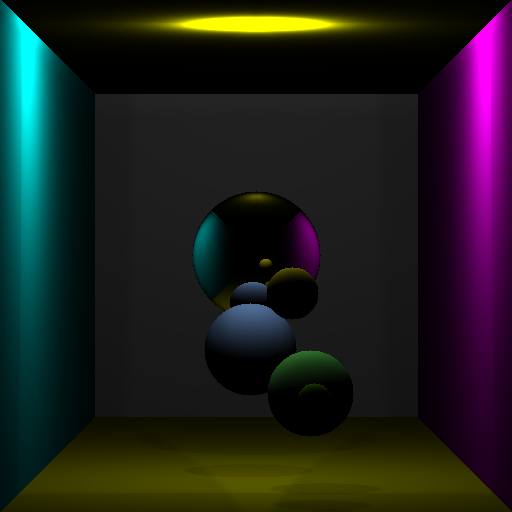
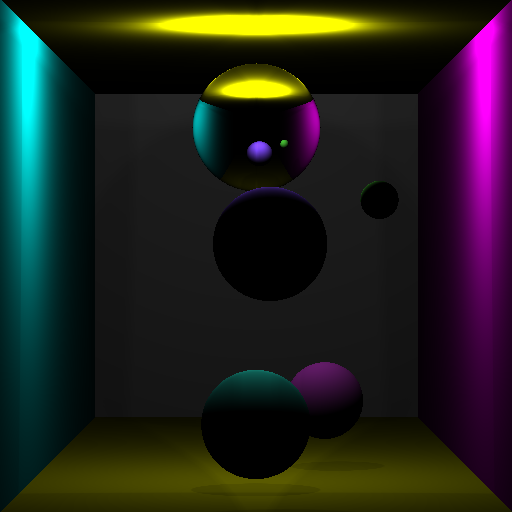
eclairage indirect ok + debut bounding box + camera ortho

diff --git a/Projet_SI_1/Projet_SI_1/Projet_SI_1.cpp b/Projet_SI_1/Projet_SI_1/Projet_SI_1.cpp
@@ -14,19 +14,31 @@
 #include "Light.h"
 #include <algorithm>
 #include <math.h>
+#include "Box.h"
+#include <random>
 
 const int width = 512;
 const int height = 512;
-int profondeurMax = 5;
+
+std::random_device rd;
+std::mt19937 gen(rd());
+
+int profondeurMax = 3;
+
 int nbSpheres = 5;
 std::vector<Sphere> spheres;
+
 std::vector<Light> lights;
 int nbLightSource = 1;
 int nbLightsPerSource = 100;
 int lightIntensity = 2000000;
-
 Vec3<float> lightColor = { 1,1,1 };
-int nbRayonsRandom = 10;
+
+int nbRayonsRandom = 5;
+int randomRayOffset = 1;
+
+
+
 
 std::optional<float> Intersect(Ray ray,Sphere s)
 {
@@ -39,7 +51,6 @@ std::optional<float> Intersect(Ray ray,Sphere s)
 	{
 		return -b / (2 * a);
 	}
-
 
 	else if (delta > 0)
 	{
@@ -56,12 +67,40 @@ std::optional<float> Intersect(Ray ray,Sphere s)
 			return r1;
 	}
 
-
 	else if (delta < 0)
 	{
 		return std::nullopt;
 	}
 }
+
+//std::optional<double> IntersectBox(Nodes b, Ray r) {
+//	Vec3<double> dir = 1.0 / r.direction;
+//
+//	// lb is the corner of AABB with minimal coordinates - left bottom, rt is maximal corner
+//	// r.org is origin of ray
+//	double t1 = (b.maxPos.x - r.position.x) * dir.x;
+//	double t2 = (b.maxPos.x - r.position.x) * dir.x;
+//	double t3 = (b.minPos.y - r.position.y) * dir.y;
+//	double t4 = (b.maxPos.y - r.position.y) * dir.y;
+//	double t5 = (b.minPos.z - r.position.z) * dir.z;
+//	double t6 = (b.maxPos.z - r.position.z) * dir.z;
+//
+//	float tmin = max(max(min(t1, t2), min(t3, t4)), min(t5, t6));
+//	float tmax = min(min(max(t1, t2), max(t3, t4)), max(t5, t6));
+//
+//	// if tmax < 0, ray (line) is intersecting AABB, but the whole AABB is behind us
+//	if (tmax < 0)
+//	{
+//		return nullopt;
+//	}
+//
+//	// if tmin > tmax, ray doesn't intersect AABB
+//	if (tmin > tmax)
+//	{
+//		return nullopt;
+//	}
+//	return tmin;
+//}
 
 Vec3<float> DrawRay(int profondeur, Ray ray, Intersection intersect)
 {
@@ -95,7 +134,7 @@ Vec3<float> DrawRay(int profondeur, Ray ray, Intersection intersect)
 				Vec3<float> newNormale = newPtInter - spheres[indexIntersectedSphere].center;
 				normalize(newNormale);
 				Intersection newIntersect = Intersection(newPtInter, newNormale, indexIntersectedSphere, sphereDistance);
-				color = DrawRay(profondeur + 1, newRay, newIntersect);
+				color = color + DrawRay(profondeur + 1, newRay, newIntersect);
 			}
 
 			else
@@ -106,23 +145,42 @@ Vec3<float> DrawRay(int profondeur, Ray ray, Intersection intersect)
 
 		else //gestion spheres avec lumières
 		{
-			//std::vector<Vec3<float>> indirectColors;
-			//indirectColors.resize(nbRayonsRandom);
+			Vec3<float> indirectColors = { 0,0,0 };
 
-			//for (int i = 0; i < nbRayonsRandom; i++) //eclairage indirect
-			//{
-			//	Vec3<float> dirILight = intersect.normale * dot(ray.dir * -1.0f, intersect.normale) * 2.0f + ray.dir * -1.0f;
-			//	normalize(dirILight);
-			//	Ray newRay(intersect.ptIntersection, dirILight);
-			//}
+			for (int i = 0; i < nbRayonsRandom; i++) //eclairage indirect
+			{
+				std::uniform_real_distribution<> disRayOffset(-randomRayOffset, randomRayOffset);
+				Vec3<float> dirILight = { intersect.normale.x - disRayOffset(gen) , intersect.normale.y - disRayOffset(gen), intersect.normale.z - disRayOffset(gen) }; // rayon random autour de la normale
+				normalize(dirILight);
+				Ray newRay(intersect.ptIntersection, dirILight);
 
-			//for (int i = 0; i < nbRayonsRandom; i++)
-			//{
-			//	color = color + indirectColors[i];
-			//}
 
-			std::vector<Vec3<float>> directColors;//eclairage direct
-			directColors.resize(nbLightsPerSource * nbLightSource);
+				int indexIntersectedSphere = -1;
+				float sphereDistance = 9999999;
+				bool gotIntersected = false;
+
+				for (int l = 0; l < nbSpheres; l++)
+				{
+					std::optional<float> resReflect = Intersect(newRay, spheres[l]);
+					if (resReflect.has_value() && resReflect.value() < sphereDistance)
+					{
+						indexIntersectedSphere = l;
+						sphereDistance = resReflect.value();
+						gotIntersected = true;
+					}
+				}
+
+				if (gotIntersected)
+				{
+					Vec3<float> newPtInter = intersect.ptIntersection + dirILight * sphereDistance * 0.95f;
+					Vec3<float> newNormale = newPtInter - spheres[indexIntersectedSphere].center;
+					normalize(newNormale);
+					Intersection newIntersect = Intersection(newPtInter, newNormale, indexIntersectedSphere, sphereDistance);
+					indirectColors =indirectColors + DrawRay(profondeur + 1, newRay, newIntersect)*0.01f;
+				}
+			}
+
+			Vec3<float> directColors = { 0,0,0 };//eclairage direct
 
 			for (int i = 0; i < nbLightsPerSource * nbLightSource; i++)
 			{
@@ -147,16 +205,13 @@ Vec3<float> DrawRay(int profondeur, Ray ray, Intersection intersect)
 							scal = 0;
 						}
 
-						color.x += spheres[intersect.indexIntersectedItem].color.x * lights[i].intensity * scal * lights[i].color.x / (nbLightsPerSource * lightDistance * lightDistance);
-						color.y += spheres[intersect.indexIntersectedItem].color.y * lights[i].intensity * scal * lights[i].color.y / (nbLightsPerSource * lightDistance * lightDistance);
-						color.z += spheres[intersect.indexIntersectedItem].color.z * lights[i].intensity * scal * lights[i].color.z / (nbLightsPerSource * lightDistance * lightDistance);
+						directColors.x += spheres[intersect.indexIntersectedItem].color.x * lights[i].intensity * scal * lights[i].color.x / (nbLightsPerSource * lightDistance * lightDistance);
+						directColors.y += spheres[intersect.indexIntersectedItem].color.y * lights[i].intensity * scal * lights[i].color.y / (nbLightsPerSource * lightDistance * lightDistance);
+						directColors.z += spheres[intersect.indexIntersectedItem].color.z * lights[i].intensity * scal * lights[i].color.z / (nbLightsPerSource * lightDistance * lightDistance);
 					}
 				}
 			}
-			for (int i = 0; i < nbLightsPerSource * nbLightSource; i++)
-			{
-				color = color + directColors[i];
-			}
+				color = color + directColors;
 		}
 		return color;
 	}
@@ -165,9 +220,8 @@ Vec3<float> DrawRay(int profondeur, Ray ray, Intersection intersect)
 
 int main()
 {
-
-	std::srand((int)std::time(nullptr));
 	Vec3<float> colorSphere = { 1,1,1 };
+	Vec3<float> pointCamera = {256,256,-300};
 
 	//box
 	float rBoxRear = 100000;
@@ -216,25 +270,33 @@ int main()
 	std::cout << centerBoxTop << rBoxTop << std::endl;
 	spheres.push_back(sphereTop);
 
+	std::uniform_real_distribution<> disOffsetLight(251, 261);
+	std::uniform_real_distribution<> disOffsetLightHeight(467, 477);
+
 	for (int i = 0; i < nbLightsPerSource; i++)
 	{
-		float x = 251 + std::rand() % 10; //->std::uniform_real_distribution
-		float y = 477 + std::rand() % 10;
-		float z = 251 + std::rand() % 10;
+		float x = disOffsetLight(gen);
+		float y = disOffsetLightHeight(gen);
+		float z = disOffsetLight(gen);
 		Vec3<float> lightPos = { x,y,z };
 		lights.push_back(Light(lightPos, lightColor, lightIntensity));
 	}
 
 	nbSpheres += 4;
 
+	std::uniform_real_distribution<> disPosSphere(64, 448);
+	std::uniform_real_distribution<> disHeightSphere(64, 320);
+	std::uniform_real_distribution<> disRayonSphere(16, 64);
+	std::uniform_real_distribution<> disColorSphere(0, 1);
+
 	for (int i = 0; i < nbSpheres-5; i++)
 	{
-		float r = 16 + std::rand() % 48;
-		float x = 64 + std::rand() % 384;
-		float y = 64 + std::rand() % 256;
-		float z = 64 + std::rand() % 384;
+		float r = disRayonSphere(gen);
+		float x = disPosSphere(gen);
+		float y = disHeightSphere(gen);
+		float z = disPosSphere(gen);
 		Vec3<float> c = { x, y, z };
-		Vec3<float> col = colorSphere - Vec3<float>{(std::rand() % 100) / 100.f, (std::rand() % 100) / 100.f, (std::rand() % 100) / 100.f};
+		Vec3<float> col = colorSphere - Vec3<float>{(float)disColorSphere(gen), (float)disColorSphere(gen), (float)disColorSphere(gen)};
 		float a = 0;
 		Sphere s(c, r,col,a);
 		spheres.push_back(s);
@@ -244,7 +306,7 @@ int main()
 	{
 		float r = 64;
 		float x = 256;
-		float y = 256;
+		float y = 512-128;
 		float z = 512;
 		Vec3<float> c = { x, y, z };
 		Vec3<float> col = {0,0,0};
@@ -269,9 +331,9 @@ int main()
 			color.y = 0;
 			color.z = 0;
 
-			Vec3<float> rDir = { 0.0,0.0,1.0 };
+			Vec3<float> rDir = { 0.0,0.0,1.0};
 			normalize(rDir);
-			Vec3<float> rPos = { i,j,0.0 };
+			Vec3<float> rPos = { i, j, pointCamera.z };
 			Ray firstRay = Ray(rPos, rDir);
 
 

diff --git a/Projet_SI_1/Projet_SI_1/Box.h b/Projet_SI_1/Projet_SI_1/Box.h
@@ -1,0 +1,17 @@
+#pragma once
+#include <vector>
+#include "Vector.h"
+
+class Box
+{
+public:
+	Vec3<float> bottomLeftFrontPoint;
+	Vec3<float> topRightRearPoint;
+	
+	Box(Vec3<float> blf,Vec3<float> trr)
+	{
+		bottomLeftFrontPoint = blf;
+		topRightRearPoint = trr;
+	}
+};
+

diff --git a/Projet_SI_1/Projet_SI_1/Leaf.h b/Projet_SI_1/Projet_SI_1/Leaf.h
@@ -1,0 +1,13 @@
+//#pragma once
+//#include "Sphere.h"
+//class Leaf
+//{
+//public:
+//	Sphere sphere;
+//
+//	Leaf(Sphere s)
+//	{
+//		sphere = s;
+//	}
+//};
+

diff --git a/Projet_SI_1/Projet_SI_1/Node.h b/Projet_SI_1/Projet_SI_1/Node.h
@@ -1,0 +1,7 @@
+#pragma once
+#include "Box.h"
+class Node
+{
+
+};
+

diff --git a/Projet_SI_1/Projet_SI_1/Leaf.cpp b/Projet_SI_1/Projet_SI_1/Leaf.cpp
@@ -1,0 +1,1 @@
+#include "Leaf.h"

diff --git a/Projet_SI_1/Projet_SI_1/Node.cpp b/Projet_SI_1/Projet_SI_1/Node.cpp
@@ -1,0 +1,1 @@
+#include "Node.h"

diff --git a/Projet_SI_1/Projet_SI_1/Box.cpp b/Projet_SI_1/Projet_SI_1/Box.cpp
@@ -1,0 +1,1 @@
+#include "Box.h"
